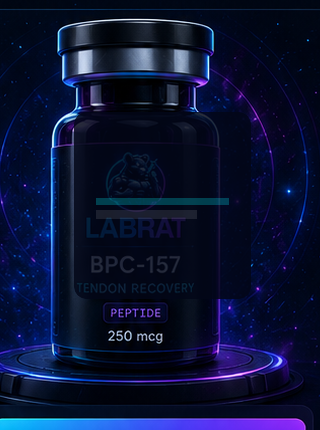
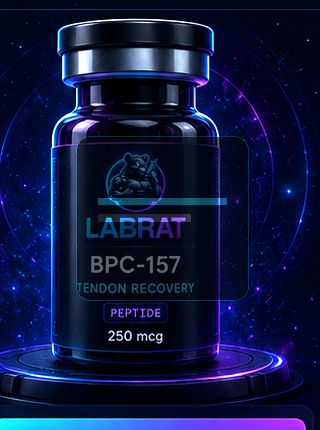
Brighten LabRat real vial shop visuals

diff --git a/src/index.css b/src/index.css
@@ -1083,3 +1083,60 @@ html[data-labrat-theme="clinical"] .labrat-real-vial-bottom-strip strong {
     font-size: 0.55rem;
   }
 }
+
+
+/* SHOP REAL VIALS V6 BRIGHTER PRODUCT VISUALS */
+.labrat-real-vial-visual {
+  min-height: 330px !important;
+  background:
+    radial-gradient(circle at 18% 22%, rgba(56, 189, 248, 0.22), transparent 36%),
+    radial-gradient(circle at 82% 18%, rgba(168, 85, 247, 0.24), transparent 34%),
+    linear-gradient(135deg, rgba(8, 20, 48, 0.98), rgba(8, 26, 60, 0.96) 50%, rgba(29, 39, 87, 0.92)) !important;
+}
+.labrat-real-vial-photo-shell {
+  min-height: 240px !important;
+}
+.labrat-real-vial-photo-frame {
+  width: min(100%, 260px) !important;
+}
+.labrat-real-vial-photo {
+  opacity: 1 !important;
+  filter: brightness(1.18) contrast(1.08) saturate(1.12) !important;
+  box-shadow: 0 18px 50px rgba(2, 6, 23, 0.52), 0 0 55px rgba(34, 211, 238, 0.26) !important;
+}
+.labrat-real-vial-overlay-card {
+  left: 22px !important;
+  right: 22px !important;
+  bottom: 18px !important;
+  background: linear-gradient(180deg, rgba(5, 12, 28, 0.12), rgba(5, 12, 28, 0.72)) !important;
+  border-color: rgba(103, 232, 249, 0.24) !important;
+}
+.labrat-real-vial-overlay-name {
+  color: #ffffff !important;
+  text-shadow: 0 0 14px rgba(34, 211, 238, 0.20) !important;
+}
+.labrat-real-vial-overlay-sub {
+  color: rgba(226, 232, 240, 0.90) !important;
+}
+.labrat-real-vial-bottom-strip {
+  margin-top: 1.05rem !important;
+}
+html[data-labrat-theme="clinical"] .labrat-real-vial-visual {
+  background:
+    radial-gradient(circle at 18% 22%, rgba(96, 165, 250, 0.18), transparent 36%),
+    radial-gradient(circle at 82% 18%, rgba(148, 163, 184, 0.14), transparent 34%),
+    linear-gradient(135deg, rgba(14, 27, 48, 0.98), rgba(18, 35, 58, 0.96) 52%, rgba(30, 48, 72, 0.94)) !important;
+}
+html[data-labrat-theme="clinical"] .labrat-real-vial-photo {
+  filter: brightness(1.12) contrast(1.06) saturate(0.92) !important;
+  box-shadow: 0 18px 42px rgba(2, 6, 23, 0.45), 0 0 34px rgba(96, 165, 250, 0.16) !important;
+}
+@media (max-width: 640px) {
+  .labrat-real-vial-photo-frame {
+    width: min(100%, 235px) !important;
+  }
+  .labrat-real-vial-photo-shell {
+    min-height: 220px !important;
+  }
+}
+
